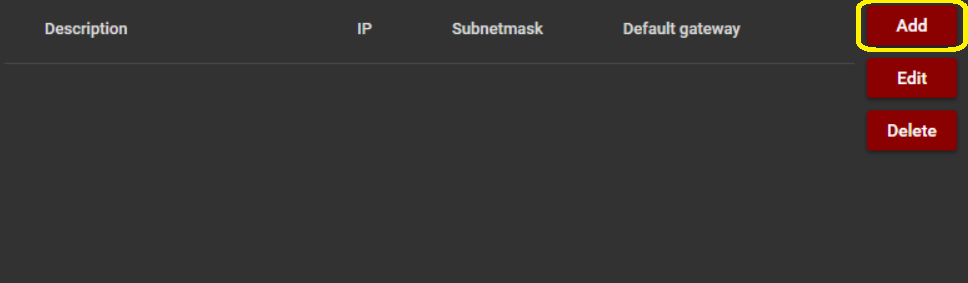
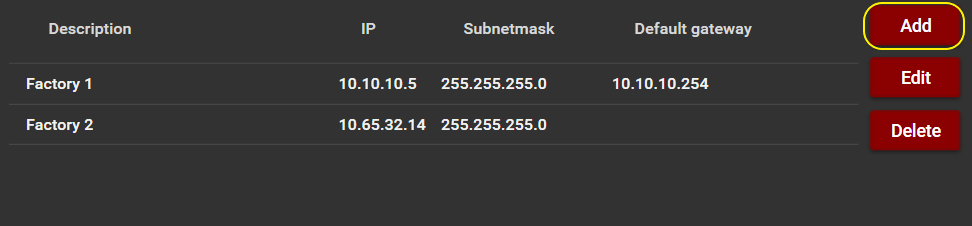
Added images for stored IP's help page and changed help page.

diff --git a/IPManagerUI/Help/StoredIPs.htm b/IPManagerUI/Help/StoredIPs.htm
@@ -30,30 +30,43 @@
         </p>
 
         <h4>Add new IP address</h4>
-        <p>To add a new IP address the button "Add" behind the list can be pressed.</p>
-        <img src="Images/DatabaseAdd.png" width="600"/>
+        <p>
+            To add a new IP address the button "Add" behind the list can be pressed.
+        </p>
+
+        <img src="Images/DatabaseAdd.png" width="600" />
+
         <p>
             By pressing this button, a window will pop-up where the information can be filled in.
             When all the data is set then the button "Add" can be pressed and the information will be added tot the list.
         </p>
         <img src="Images/Add IP setting.png" />
 
+
+
         <h4>Edit IP address</h4>
         <p>
             To edit an IP address, first select the address that needs to be changed. Then select the "Edit" button.
         </p>
-        <img src="" />
+
+        <img src="Images/DatabaseEdit.png" width="600" />
+
         <p>
             A new window will pop-up with the information of the selected item. In this window the necessary changes can be done.
             After changing the information the button "Edit" can be clicked once again. Now the information is stored in the database.
             The edited data can be found in the list.
         </p>
+
         <img src="Images/Edit IP setting.png" />
+
+
 
         <h4>Delete IP address</h4>
         <p>
             To delete an IP address, first select the address that needs to be deleted. Then select the "Delete" button.
         </p>
+
+        <img src="Images/DatabaseDelete.png" width="600" />
 
         <p>
             By clicking this button, a delete window will open and shows the information that will be deleted.
